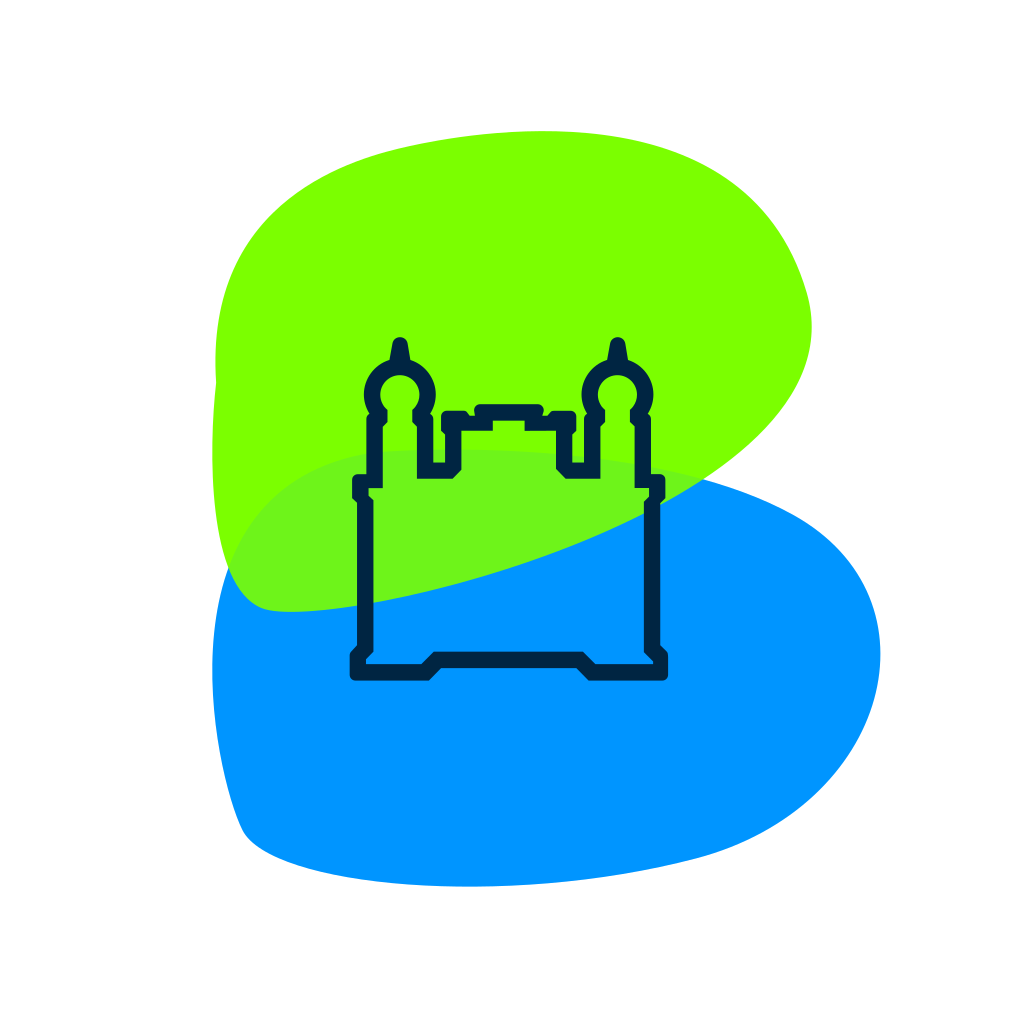
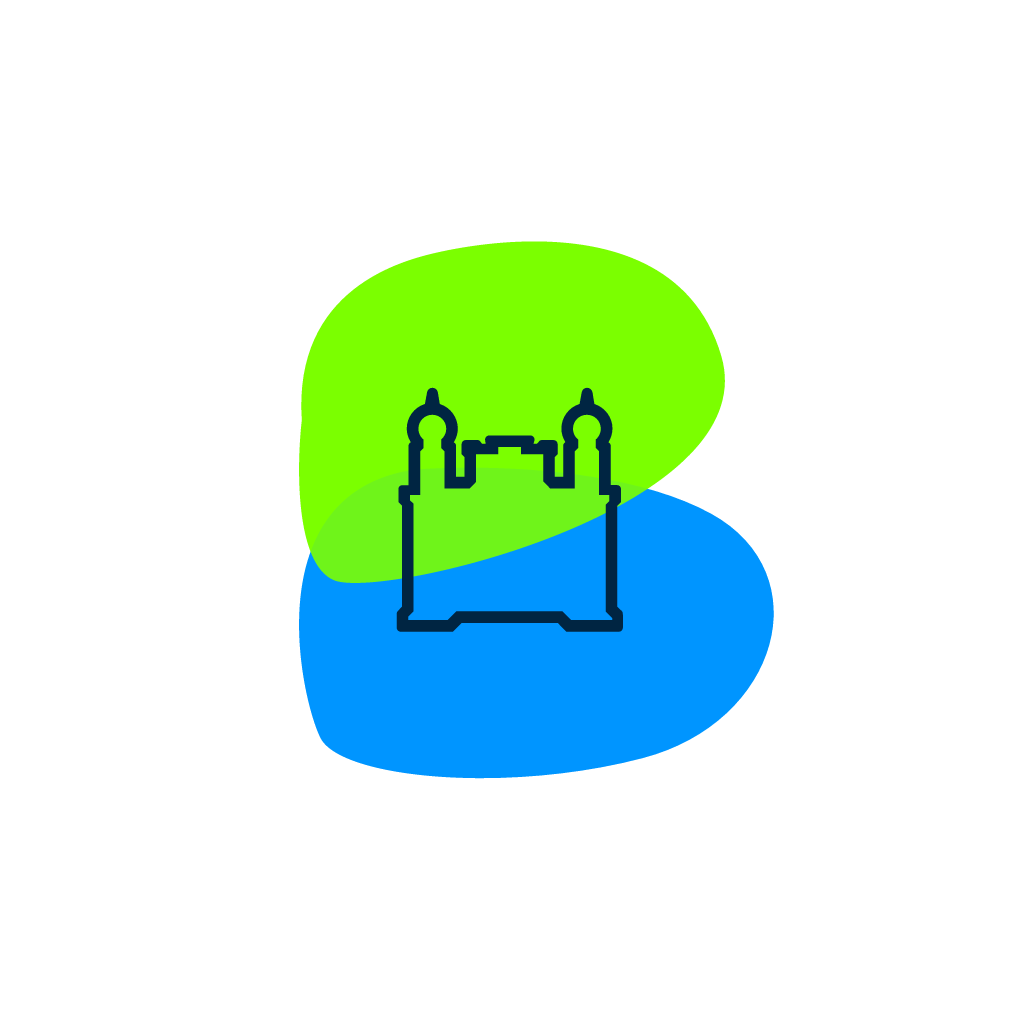
fix: preserva símbolo no ícone Android e adiciona splash nativa

Changed region(s): [[0.1875, 0.125, 0.875, 0.875]]

diff --git a/app/_layout.tsx b/app/_layout.tsx
@@ -1,3 +1,5 @@
+import { useEffect } from 'react';
+import * as SplashScreen from 'expo-splash-screen';
 import { NotificationProvider } from '@/notifications/NotificationProvider';
 import { wrapTelemetryRoot } from "@/telemetry/telemetry";
 import { Stack } from "expo-router";
@@ -16,6 +18,8 @@ import { EnergyPreviewProvider } from "@/features/avatar/EnergyPreview";
 import { HealthProvider } from "@/health/HealthProvider";
 import Introduction from "@/features/introduction/Introduction";
 import { useIntroduction } from "@/features/introduction/useIntroduction";
+
+void SplashScreen.preventAutoHideAsync();
 
 function HealthBoundary() {
   const { state, ready } = useMock();
@@ -39,6 +43,9 @@ function Navigation() {
     Montserrat_600SemiBold,
     Montserrat_700Bold,
   });
+  useEffect(() => {
+    if (introduction.ready && (fontsLoaded || fontError)) void SplashScreen.hideAsync();
+  }, [introduction.ready, fontsLoaded, fontError]);
   if (!ready || !introduction.ready || (!fontsLoaded && !fontError))
     return (
       <View

diff --git a/android/app/src/main/java/br/fiocruz/mobile/bora/MainActivity.kt b/android/app/src/main/java/br/fiocruz/mobile/bora/MainActivity.kt
@@ -1,4 +1,5 @@
 package br.fiocruz.mobile.bora
+import expo.modules.splashscreen.SplashScreenManager
 
 import android.os.Build
 import android.os.Bundle
@@ -15,7 +16,10 @@ class MainActivity : ReactActivity() {
     // Set the theme to AppTheme BEFORE onCreate to support
     // coloring the background, status bar, and navigation bar.
     // This is required for expo-splash-screen.
-    setTheme(R.style.AppTheme);
+    // setTheme(R.style.AppTheme);
+    // @generated begin expo-splashscreen - expo prebuild (DO NOT MODIFY) sync-f3ff59a738c56c9a6119210cb55f0b613eb8b6af
+    SplashScreenManager.registerOnActivity(this)
+    // @generated end expo-splashscreen
     super.onCreate(null)
   }
 

diff --git a/docs/build-android.md b/docs/build-android.md
@@ -48,3 +48,19 @@ adb reverse tcp:8081 tcp:8081
 O módulo nativo `expo-observe` é excluído do autolinking Android em `package.json`: a versão instalada inicializa o dispatcher mesmo quando o JavaScript não importa o módulo e interrompe o app sem `extra.eas.projectId`. O carregamento da telemetria também é condicionado à configuração no JavaScript, e fica desativado no Android. O iOS continua elegível quando houver um ID de projeto configurado, sempre com envio condicionado ao consentimento.
 
 Para habilitar telemetria Android futuramente, configure o projeto Expo real, revise o comportamento de coleta/consentimento, remova a exclusão nativa e a condição de plataforma e gere um novo build. Não use um ID fictício apenas para contornar o erro.
+
+## Ícone e splash
+
+A splash usa `expo-splash-screen`, fundo azul `#002542` e símbolo centralizado. Sua liberação espera fontes e preferências iniciais ficarem prontas, sem temporizador artificial. Não depende de esperar uma resposta da API. A apresentação de boas-vindas permanece separada.
+
+O símbolo do ícone adaptativo cabe no círculo seguro de diâmetro 66/108 do Android. As versões colorida, monocromática e de splash são derivadas do SVG original, preservando o B e o castelo:
+
+```sh
+npm run assets:android
+npx expo prebuild --platform android --no-install
+npm run android
+```
+
+O gerador valida a distância máxima dos pixels visíveis ao centro antes de salvar o foreground. Mantenha a margem transparente: preencher o canvas com o B provoca cortes nas máscaras redondas. O fundo é uma camada azul separada.
+
+Mudanças nos ícones e na splash exigem nova instalação. Launchers podem manter o ícone antigo em cache. A aparência final da splash deve ser conferida também em um build Release; builds de desenvolvimento podem apresentar diferenças.

diff --git a/docs/testes-android.md b/docs/testes-android.md
@@ -24,3 +24,13 @@ A abertura da apresentação não confirma acesso à API, navegação completa, 
 A mudança de pacote cria uma instalação distinta e não migra dados locais do pacote antigo. O Xcode não foi regenerado. A configuração de assinatura Release Android ainda usa a chave de desenvolvimento do template e precisa ser preparada antes da distribuição.
 
 Comandos e detalhes em [build Android](build-android.md).
+
+## Ícone adaptativo e splash — atualização de 22/10/2026
+
+- Foreground e versão monocromática regenerados a partir de assets/imgs/Icon.svg, com o B e o castelo completos. Pixels visíveis do foreground limitados a raio 298,9 px em uma camada 1024 px; o círculo seguro do Android permite 312,9 px.
+- Ícone redondo conferido visualmente no launcher do Pixel 8 / Android 15, sem recortes do símbolo.
+- Splash configurada via expo-splash-screen: fundo #002542, símbolo centralizado, variantes clara/escura iguais. Liberação após fontes e preferências locais da apresentação; restauração da conexão com a API continua usando o indicador de carregamento da interface.
+- 79 testes e TypeScript aprovados. Builds Debug e Release arm64 concluídos.
+- APK Release local instalado e aberto pelo launcher: splash capturada com o símbolo completo e transição para a tela de acesso confirmada. Nenhuma falha AndroidRuntime registrada nessa abertura.
+- APK Debug reinstalado após a conferência, para continuar o desenvolvimento com Metro e API HTTP local.
+- Apenas Android foi regenerado. A configuração da splash está em app.json; o projeto iOS não foi regenerado nesta rodada.
